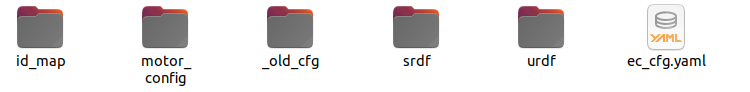
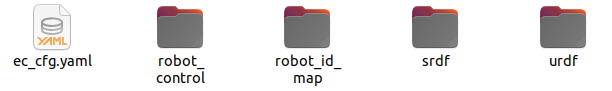
Reviewed EtherCAT Master Server and Client documentation.

diff --git a/docs/source/ec_client.rst b/docs/source/ec_client.rst
@@ -26,22 +26,56 @@ It's possible to generate the doxygen documentation to read the code of the Ethe
 `Link to the documentation <https://advanced-robotics-facility.github.io/ecat-client-advr/doxygen/>`__ 
 
 
-Slave Configuration files
---------------------------------------------
+EtherCAT Client Configuration files
+=====================================
 
 The suggestion is to create a directory with this sub-directories:
 
 .. image:: _static/EtherCAT_Client_Img/EtherCAT_Client_Img_2.png
 
+* **ec_cfg.yaml:** This is the main file for setup the EtherCAT Client.
+* **robot_control:** Here it's possible to setup the robot control having different slaves that can be controlled (motors,valve,pumps,etc...).
+* **robot_id_map:** File of the slave map (id--->name).
+* **urdf:** The URDF of the robot that can be used for simulation or by internal libraries for mathematical calculations.
+* **srdf:** The URDF of the robot that can be used for simulation or by internal libraries for mathematical calculations.
 
-* **joint_config:** Here it's possible to save different slaves configuration files. 
-* **joint_map:** File of the slave map (id--->name).
-* **"robot_file":** This is an optional file where there are the links to urdf,srdf, model_type and is_model_floating_base information. If this file is present and the user wants to use it, it's better to save the main directory into a workspace where it's possible to find the urdf and srdf.
+EtherCAT Cient file
+--------------------------------------------
+.. image:: _static/EtherCAT_Client_Img/EtherCAT_Client_Img_2_1.png
 
-Motor Setup
+* **network:** Setup the EtherCAT Client network using the TCP/UDP, IDDP (Real-Time Xenomai IPC Pipes) or ZIPC (ZMQ Inter-process) .
+* **general:** Setup period and low level logging. **(Optional)**
+* **robot:** Setup the robot_control and robot id map paths. **(Optional)** 
+* **XBotInterface:** Setup the urdf/srdf for the XBotInterface library. **(Optional)**
+* **ModelInterace:** Setup the model characteristics for the ModelInterface library. **(Optional)**
+
+Robot control
 --------------------------------------------
 
+.. image:: _static/EtherCAT_Client_Img/EtherCAT_Client_Img_2_2.png
+
+.. image:: _static/EtherCAT_Client_Img/EtherCAT_Client_Img_2_3.png
+
+* **trajectory:** Setup the trajectory type, frequency and repeat number. (Used by Motors and Valves).
+* **motor:** Setup the low level configuration file, ids, set points, homing and general trajectories. **(Optional)**
+* **valve:** Setup the low level configuration file, ids, set points, homing and general trajectories. **(Optional)** 
+* **pumps:** Setup the low level configuration file, ids, set points, homing and general trajectories. **(Optional)**
+* **simulation:** Setup other slaves for the simulation. **(Optional)**
+
+EtherCAT Client Examples
+=====================================
+
+.. image:: _static/EtherCAT_Client_Img/EtherCAT_Client_Img_6.png
+
+* **frequency test:** This example can be used to star the controllers of the slave and increase the period set up in ec_cfg.yaml file (executable argument in micro-second) . **This example was created for testing the UDP protocol.**
+* **general trajectory:** This example can be used to start a general trajectory specified in robot control trajectory session.
+* **gravity compensation:** This example can be used to send the gravity compensation for the motors.
+* **hydraulic:** This example can be used to start a simple quintic degree polynomial trajectory specified in robot control trajectory session for motor,valves and pumps.
+* **simple trajectory:** This example can be used to start a simple quintic degree polynomial trajectory specified in robot control trajectory session only for the motors.
 
 
+**Note:** Using the robot control session, it is possible to run the examples starting the controller of the specific slave with its control mode and set point using the its ID.
+
+**Important:** A generic user can write its example code simpling adding the CMakeLists.txt the ec_library, **find_package(ec_library)** adding in the target_link_libraries **ec_library::ec_library**
 
 

diff --git a/docs/source/background.rst b/docs/source/background.rst
@@ -510,3 +510,10 @@ Note: this operation must be done once.
 * **systemctl disable serial-getty@ttyS0.service"**
 * **systemctl mask serial-getty@ttyS0.services**
 
+EtheCAT UDP Server
+=============================
+
+EtheCAT UDP Server is a ZMQ client that uses the ZMQ inter process (ZmqIPC) protocol for the communication with EtherCAT Master Server and udp boost asio and message pack libraries for communicating with an external UDP Client.
+
+.. image:: _static/EtherCAT_Master_Img/EtherCAT_Master_Img_19.png
+
